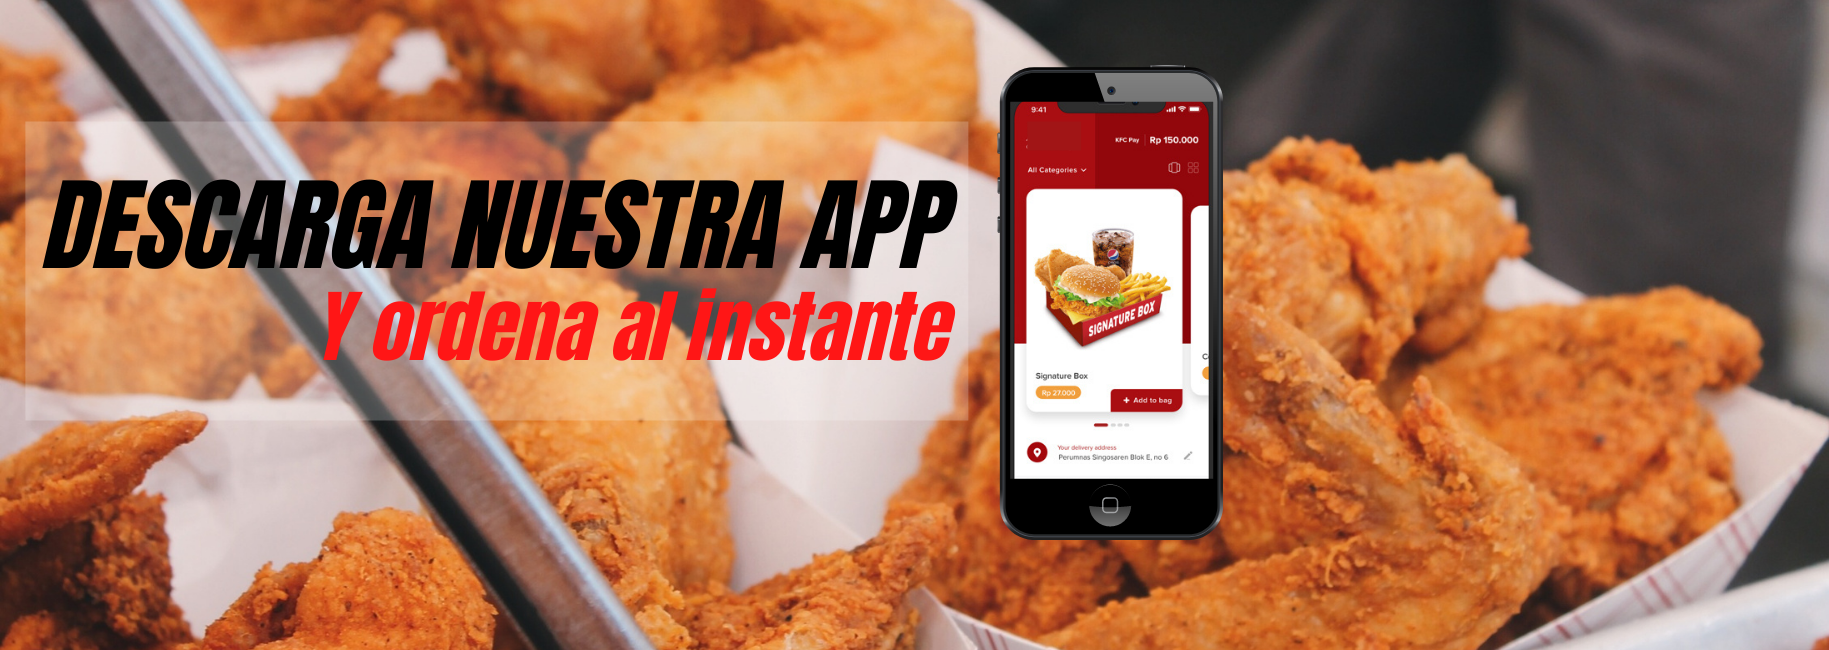
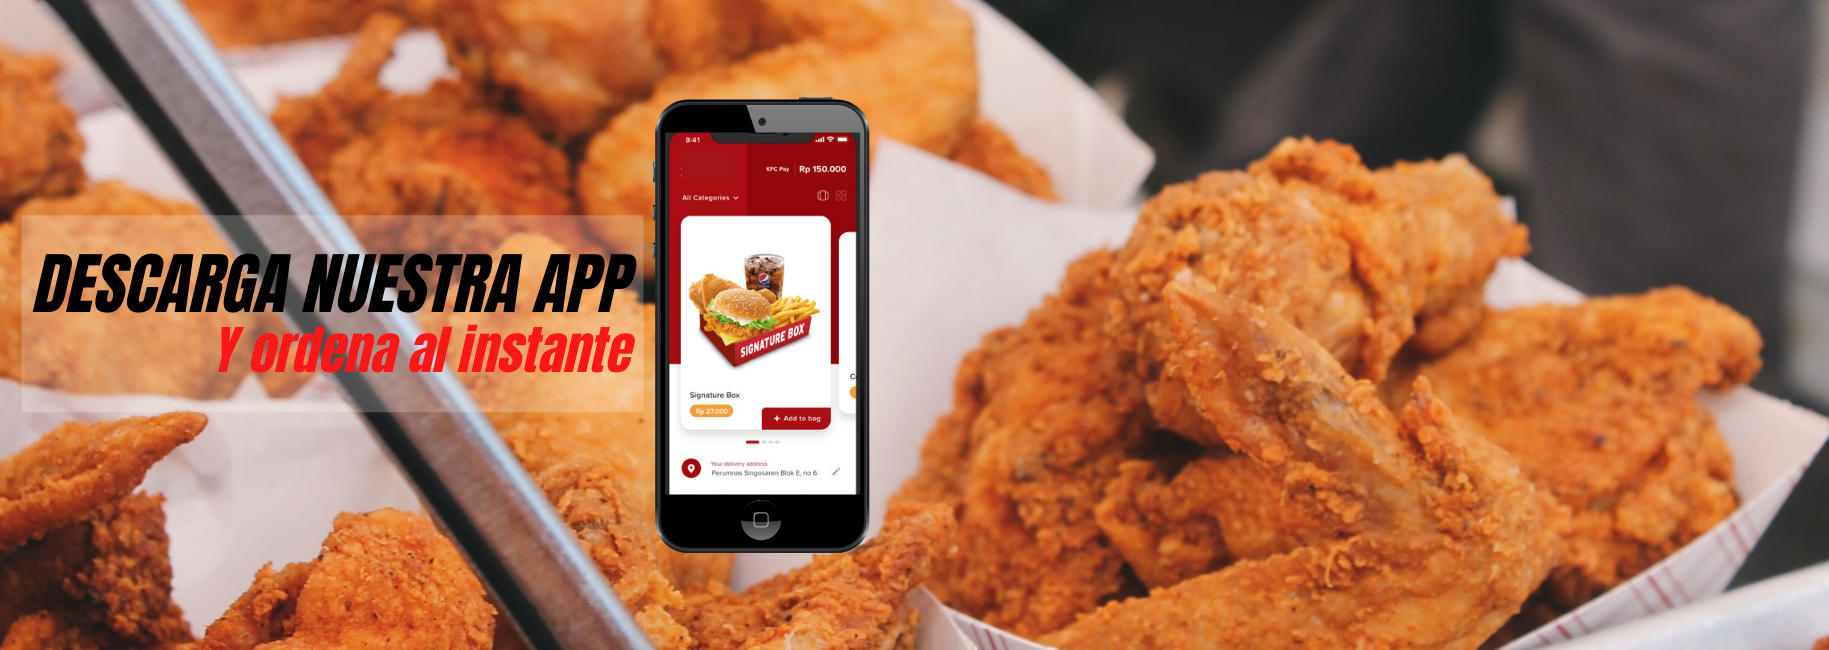
añadi version mobil

Changed region(s): [[0.0, 0.0923, 0.6856, 0.8615], [0.0623, 0.6154, 0.1247, 0.6462]]

diff --git a/style.css b/style.css
@@ -144,7 +144,8 @@ nav li {
 
 .card {
     width: 25%;
-    min-width: 300px;
+    min-width: 400px;
+    max-width: 470px;
     height: 65%;
     margin: 100px 50px;
     background-color: snow;
@@ -383,6 +384,15 @@ footer {
         top: 8px;
     }
 
+    .card {
+        min-width: 15%;
+        margin-left: 0px;
+        margin-right: 0px;
+        flex-shrink: 1;
+        flex-grow: 1;
+        flex-basis: 300px;
+    }
+
     .descarga-app {
         height: 650px;
         background-image: url(./images/APP\ 1400.png);
@@ -464,8 +474,14 @@ footer {
     }
  
     .descarga-app {
-        height: 650px;
-        background: url('images\APP 1400.png');
+        height: 450px;
+        background: url(./images/APP\ med.png);
+        background-position-y: center;
+    }
+
+    .descarga-app button {
+        position: relative;
+        bottom: 380px;
     }
 
     .cardholder {
@@ -486,16 +502,35 @@ footer {
     .jumbotron-content h1 {
         font-size: 2.5rem;
         position: relative;
-        bottom: 300px;
     }
 
     .jumbotron-content {
 
     }
 
-.suscribe {
-
-}
+    .suscribe label {
+        font-size: 1.2rem;
+        font-family: 'Sintony';
+        margin-left: 0px;
+    }
+    
+    .suscribe input[type="text"] {
+        width: 400px;
+        position: relative;
+        display: block;
+        left: 42px;
+    
+    }
+    
+    .suscribe input[type="submit"] {
+        color: black;
+        font-weight: bold;
+        border: solid black 1px;
+        display: block;
+        position: relative;
+        left: 210px;
+        top: 8px;
+    }
 
     .cardholder {
         height: 1700px;
@@ -507,8 +542,107 @@ footer {
         margin-top: 15px;
         margin-bottom: 15px;
     }
-}
 
-@media screen and (max-width: 480px){
+    .descarga-app button{
+        position: relative;
+        left: 300px;
+        top: 300px;
+    }
     
+
+}
+    /* MOVIL */
+@media screen and (max-width: 520px){
+    
+    .suscribe {
+        display: none;
+    }
+
+    .cardholder {
+        height: 1850px;
+    }
+
+    .descarga-app {
+        background-image: url(./images/APP\ mobil.png);
+        background-position-x: center;
+        height: 300px;
+    }
+
+    .descarga-app button {
+        height: 20%;
+        width: 30%;
+        top: 190px;
+        left: 85px;
+        font-size: 1rem;
+    }
+
+    .bolsa-trabajo {
+        height: 600px;
+        flex-direction: column;
+    }
+
+    .unete {
+        max-height: 10%;
+        border-bottom: solid black 2px;
+        flex-grow: 0;
+    }
+
+    .unete h1 {
+        font-size: 2rem;
+        margin-top: 13px;
+    }
+
+    .job-img-cont {
+        max-height: 55%;
+        background-position-y: -135px;
+        border-bottom: none;
+        flex-grow: 1;
+        flex-basis: ;
+    }
+
+    .job-info {
+        max-height: 35%;
+        flex-grow: 1;
+        flex-basis: 200px;
+    }
+
+    .job-info h3 {
+        font-size: 1.7rem;
+    }
+
+    .job-info p {
+        display: none;
+    }
+
+    .job-info button {
+        width: 40%;
+        height: 25%;
+        font-size: 1.3rem;
+        margin-top: 3%;
+    }
+
+    footer {
+        height: 300px;
+        display: flex;
+        flex-flow: row wrap;
+    }
+
+    .footer-social {
+        display: flex;
+        flex-flow: row wrap;
+        align-items: flex-start;
+        justify-content: center;
+        min-width: 100%;
+        max-height: 20%;
+
+    }
+
+    .icon {
+        height: 35px;
+        margin-top: 1rem;
+    }
+
+    .footer-cont {
+        margin-top: 0;
+        
 }
